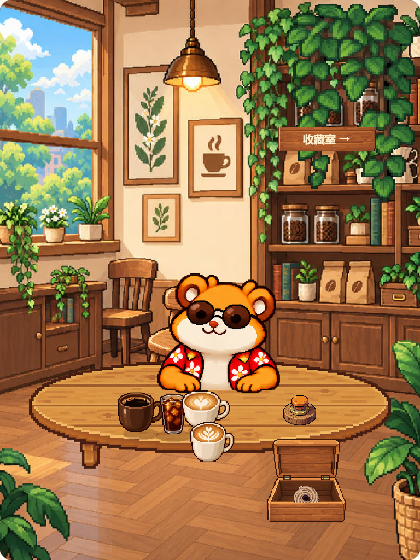
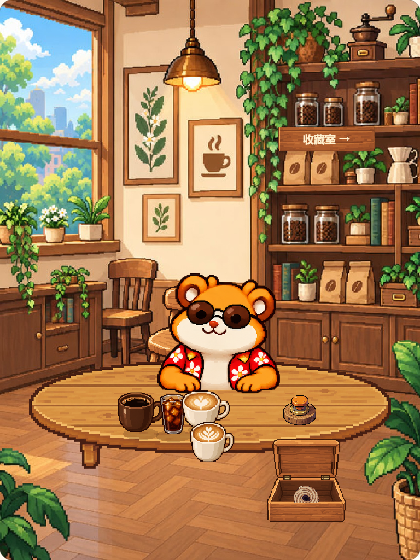
Fix coffee-corner visual regressions and release V19.5.1
Keep a single collection sign with a transparent hit target, pin the seated hamster, and show the storage box only while a cup is being packed away. Skip ivy and chalkboard overlays on the baked rooms, and use a quiet dashboard hamster as the daily limit gets close.

Changed region(s): [[0.681, 0.0, 0.9905, 0.3643]]

diff --git a/production_scene.js b/production_scene.js
@@ -141,6 +141,8 @@ window.CleanupMotion=(function(){
     const s=schedule(M,rows);
     return s.reactionAt+reactionMs(M,rows);
   }
+  // Closed box appears with the lid opening and leaves after the closed hold.
+  function boxVisible(elapsed,sched){return elapsed>=sched.openingAt&&elapsed<sched.reactionAt}
   function snapshot(M,elapsed,rows,origins){
     const sched=schedule(M,rows);
     const phase=boxPhase(elapsed,sched);
@@ -165,7 +167,7 @@ window.CleanupMotion=(function(){
       react:elapsed>=sched.reactionAt
     };
   }
-  return {MAX_VISIBLE,DEFAULTS,timing,boxPose,boxPivot,boxOrigin,mouth,drop,tablePose,tableCup,visibleRows,hiddenCount,schedule,boxPhase,boxStateKey,boxLayers,hamster,cupMotion,reactionName,reactionMs,totalMs,snapshot,ease,mix,clamp01};
+  return {MAX_VISIBLE,DEFAULTS,timing,boxPose,boxPivot,boxOrigin,mouth,drop,tablePose,tableCup,visibleRows,hiddenCount,schedule,boxPhase,boxStateKey,boxLayers,boxVisible,hamster,cupMotion,reactionName,reactionMs,totalMs,snapshot,ease,mix,clamp01};
 })();
 }
 const ProductionScene={
@@ -182,9 +184,10 @@ const ProductionScene={
   tableCup(i,n){return CleanupMotion.tableCup(this.M(),i,n)},
   hot(id){return this.M().assets[id]?.hot!==false&&!/cold_brew|coconut_latte|matcha|dirty/.test(id)},
   roomId(){const s=this.M().scene.room;return this.night()?(s&&s.night)||'scene_room_night':(s&&s.day)||'scene_room_day'},
+  bakedRoom(){return !!this.M().assets[this.roomId()]},
   drawRoom(c){
-    if(this.M().assets[this.roomId()])this.drawTop(c,this.roomId(),0,0,768);
-    else{this.drawTop(c,'scene_background',0,0,768);this.drawTop(c,this.night()?'window_night':'window_day',35,140,285);this.drawTop(c,'lamp',350,40,125);this.drawTop(c,'plant',18,540,160);this.drawTop(c,'plant',610,530,130)}
+    if(this.bakedRoom()){this.drawTop(c,this.roomId(),0,0,768);return}
+    this.drawTop(c,'scene_background',0,0,768);this.drawTop(c,this.night()?'window_night':'window_day',35,140,285);this.drawTop(c,'lamp',350,40,125);this.drawTop(c,'plant',18,540,160);this.drawTop(c,'plant',610,530,130);
     if(this.M().assets.chalkboard)this.sprite(c,'chalkboard',118,790,.78);
   },
   drawSeat(c){const ch=this.M().scene.chair||{},x=ch.position?ch.position[0]:338,y=ch.position?ch.position[1]:702,s=ch.scale||.58;this.sprite(c,'chair',x,y,s)},
@@ -192,7 +195,10 @@ const ProductionScene={
   btn(){const b=this.M().scene.button||{};return {x:b.position?b.position[0]:548,y:b.position?b.position[1]:778,scale:b.scale||.28,up:b.up||'btn_hamster_up',down:b.down||'btn_hamster_down'}},
   drawButton(c,pressed){const b=this.btn();this.sprite(c,pressed?b.down:b.up,b.x,b.y+(pressed?6:0),b.scale)},
   drawDressing(c){(this.M().scene.dressing||[]).forEach(p=>{if(this.M().assets[p.id])this.sprite(c,p.id,p.position[0],p.position[1],p.scale)})},
-  drawSign(c,glow){this.sprite(c,'entrance_normal',597,255,.55);c.save();c.fillStyle=glow?'#fff8dc':'#fff1cf';c.font='700 20px system-ui';c.textAlign='center';c.fillText('收藏室 →',597,262);c.restore()},
+  signPose(){return {id:'entrance_normal',x:597,y:255,scale:.55}},
+  signRect(){const p=this.signPose(),a=this.M().assets[p.id]||{pivotX:176,pivotY:56,canvas:[352,112]};const w=a.canvas[0]*p.scale,h=a.canvas[1]*p.scale;return {x:p.x-a.pivotX*p.scale,y:p.y-a.pivotY*p.scale,w,h}},
+  drawSign(c,glow){const p=this.signPose();this.sprite(c,p.id,p.x,p.y,p.scale);c.save();c.fillStyle=glow?'#fff8dc':'#fff1cf';c.font='700 20px system-ui';c.textAlign='center';c.fillText('收藏室 →',p.x,p.y+7);c.restore()},
+  drawIvy(c){if(!this.bakedRoom()&&this.M().assets.ivy_hanging)this.sprite(c,'ivy_hanging',640,8,.85)},
   drawStorage(c,snap,cupSprite){
     snap.layers.forEach(id=>{
       if(id==='liveCup'){
@@ -221,15 +227,14 @@ const ProductionScene={
     if(this.paintRitual){this.paintRitual(c);this.place();return}
     this.drawRoom(c);this.drawSeat(c);
     const tw=this.tableWorld();this.sprite(c,'table_back',tw.x,tw.y,tw.scale);
-    const hid=id||this.hamster||this.restId(), idle=this.M().scene.idle, bob=this._bob||0;
-    this.sprite(c,hid,idle.position[0],idle.position[1]+bob,idle.scale);
+    const hid=id||this.hamster||this.restId(), idle=this.M().scene.idle;
+    this.sprite(c,hid,idle.position[0],idle.position[1],idle.scale);
     const cups=typeof CoffeeRoom!=='undefined'?CoffeeRoom.desk().slice(0,CleanupMotion.MAX_VISIBLE):[],cs=.4;
     cups.forEach((r,i)=>{const [x,y]=this.tableCup(i,cups.length),cid=this.cupId(r);this.sprite(c,'cup_shadow_medium',x,y+2,cs);this.sprite(c,cid,x,y,cs);if(this.fx)this.sprite(c,this.fx,x,y-36,.32)});
     this.drawDressing(c);this.drawButton(c,false);
     this.sprite(c,'table_front',tw.x,tw.y,tw.scale);
-    if(this.M().assets.ivy_hanging)this.sprite(c,'ivy_hanging',640,8,.85);
+    this.drawIvy(c);
     this.drawSign(c,false);
-    this.drawStorage(c,CleanupMotion.snapshot(this.M(),0,[],[]),r=>this.cupId(r));
     if(this.sleepy()&&this.fx&&String(this.fx).startsWith('fx_zzz'))this.sprite(c,this.fx,idle.position[0]+70,idle.position[1]-120,.5);
     if(!cups.length&&this.fx&&String(this.fx).startsWith('fx_question'))this.sprite(c,this.fx,idle.position[0]+90,idle.position[1]-80,.55);
     this.place();
@@ -238,10 +243,14 @@ const ProductionScene={
     const canvas=this.canvas;if(!canvas?.parentElement)return;
     const cups=typeof CoffeeRoom!=='undefined'?CoffeeRoom.desk().slice(0,CleanupMotion.MAX_VISIBLE):[],n=cups.length,cs=.4;
     canvas.parentElement.querySelectorAll('.cc-desk-cup').forEach((btn,i)=>{if(i>=n)return;const [x,y]=this.tableCup(i,n),w=256*cs,h=256*cs;btn.style.left=((x-128*cs)/768*100).toFixed(2)+'%';btn.style.top=((y-224*cs)/1024*100).toFixed(2)+'%';btn.style.width=(w/768*100).toFixed(2)+'%';btn.style.height=(h/1024*100).toFixed(2)+'%'});
+    const sign=canvas.parentElement.querySelector('.cc-room-sign');
+    if(sign){const r=this.signRect();sign.style.left=((r.x+r.w/2)/768*100).toFixed(2)+'%';sign.style.top=((r.y+r.h/2)/1024*100).toFixed(2)+'%';sign.style.width=(r.w/768*100).toFixed(2)+'%';sign.style.height=(r.h/1024*100).toFixed(2)+'%'}
   },
-  rest(){this.interactionState='idle';this.paintRitual=null;this.fx=null;this.hamster=this.restId();this.canvas?.removeAttribute('data-playing');this.canvas&&(this.canvas.dataset.interaction='idle');this.paint();this.bob()},
+  rest(){this.interactionState='idle';this.paintRitual=null;this.fx=null;this.hamster=this.restId();this._bob=0;this.canvas?.removeAttribute('data-playing');this.canvas&&(this.canvas.dataset.interaction='idle');this.paint();this.bob()},
   bob(){const canvas=this.canvas;if(!canvas)return;const tok=++this.bobTok,t0=performance.now(),rest=this.restId(),blink=this.sleepy()?'hamster_sleep_02':'hamster_idle_01';
-    const tick=now=>{if(tok!==this.bobTok||this.paintRitual||canvas.dataset.playing)return;const t=(now-t0)/1000;this._bob=Math.sin(t*Math.PI*1.15)*1.4;this.hamster=(t%3.6)>3.38?blink:rest;this.paint(this.hamster);requestAnimationFrame(tick)};requestAnimationFrame(tick)},
+    this._bob=0;
+    let shown=this.hamster;
+    const tick=now=>{if(tok!==this.bobTok||this.paintRitual||canvas.dataset.playing)return;const t=(now-t0)/1000;this._bob=0;const next=(t%3.6)>3.38?blink:rest;if(next!==shown){shown=next;this.hamster=next;this.paint(next)}requestAnimationFrame(tick)};requestAnimationFrame(tick)},
   play(name,onframe,done){
     this.bobTok++;Motion.stop();
     const canvas=this.canvas||document.querySelector('[data-scene]');if(!canvas){done?.();return}
@@ -285,9 +294,9 @@ const ProductionScene={
     this.drawDressing(c);this.drawButton(c,snap.buttonDown);
     if(snap.hamster.pressed)this.sprite(c,hid,idle.position[0],idle.position[1],idle.scale);
     this.sprite(c,'table_front',tw.x,tw.y,tw.scale);
-    if(this.M().assets.ivy_hanging)this.sprite(c,'ivy_hanging',640,8,.85);
+    this.drawIvy(c);
     this.drawSign(c,snap.phase!=='closed');
-    this.drawStorage(c,snap,r=>this.cupId(r));
+    if(CleanupMotion.boxVisible(snap.elapsed,snap.sched))this.drawStorage(c,snap,r=>this.cupId(r));
     if(this.fx&&String(this.fx).startsWith('fx_question'))this.sprite(c,this.fx,idle.position[0]+90,idle.position[1]-80,.55);
   },
   startReaction(rows,done){
@@ -335,7 +344,7 @@ const ProductionScene={
   mount(){
     document.querySelectorAll('canvas[data-scene]').forEach(canvas=>{
       if(this.mounted.has(canvas)){this.canvas=canvas;this.paint();return}
-      this.mounted.add(canvas);this.canvas=canvas;
+      this.mounted.add(canvas);this.canvas=canvas;this.place();
       this.load().then(()=>{if(!canvas.isConnected)return;if(typeof CoffeeRoom!=='undefined'&&CoffeeRoom.ritual)return;if(!canvas.dataset.playing){this.rest();this.nudge()}}).catch(()=>{canvas.setAttribute('aria-label','咖啡角素材暂时无法加载')});
     });
   }

diff --git a/coffee_room.js b/coffee_room.js
@@ -11,7 +11,7 @@ const CoffeeRoom={
   cupButton(r){return `<button class="cc-desk-cup" data-record-id="${esc(r.id)}" onclick="CoffeeRoom.detail(${this.arg(r.id)})" aria-label="查看 ${esc(recordDisplayName(r))}，${pad(new Date(r.ts).getHours())}:${pad(new Date(r.ts).getMinutes())}"></button>`},
   hero(){if(/^character_/.test(settings.homeCharacter||'')&&settings.homeCharacter!=='character_burger'&&Motion.asset(settings.homeCharacter))return settings.homeCharacter;const h=new Date().getHours();return h<6||h>=22?'character_idle':this.desk().length?'character_coffee':'character_wave'},
   scene(){const rs=this.desk(),night=ProductionScene.night();
-    return `<section class="cc-corner ${night?'cc-night':''}" aria-label="仓鼠咖啡角"><canvas class="cc-scene-canvas" width="768" height="1024" data-scene="true" role="img" aria-label="仓鼠咖啡角，点击播放一次动作"></canvas><div class="cc-scene-heading"><span>仓鼠咖啡角</span><button class="cc-room-sign" onclick="CoffeeRoom.open()">收藏室 ↗</button></div><div class="cc-speech">${rs.length?'每一杯，都有自己的故事。':'桌子留好了，今天想喝什么？'}</div><div class="cc-desk" aria-label="今天的咖啡">${rs.slice(0,4).map(r=>this.cupButton(r)).join('')}</div>${rs.length>4?`<button class="cc-more" onclick="CoffeeRoom.openToday()">更多 · 还有 ${rs.length-4} 杯 →</button>`:!rs.length?'<span class="cc-empty-desk">还没有放上今天的咖啡</span>':''}<div class="cc-ritual-slot"></div></section>`;
+    return `<section class="cc-corner ${night?'cc-night':''}" aria-label="仓鼠咖啡角"><canvas class="cc-scene-canvas" width="768" height="1024" data-scene="true" role="img" aria-label="仓鼠咖啡角，点击播放一次动作"></canvas><button type="button" class="cc-room-sign" onclick="CoffeeRoom.open()" aria-label="打开收藏室"></button><div class="cc-speech">${rs.length?'每一杯，都有自己的故事。':'桌子留好了，今天想喝什么？'}</div><div class="cc-desk" aria-label="今天的咖啡">${rs.slice(0,4).map(r=>this.cupButton(r)).join('')}</div>${rs.length>4?`<button class="cc-more" onclick="CoffeeRoom.openToday()">更多 · 还有 ${rs.length-4} 杯 →</button>`:!rs.length?'<span class="cc-empty-desk">还没有放上今天的咖啡</span>':''}<div class="cc-ritual-slot"></div></section>`;
   },
   decorateHome(){const content=$('todayContent');if(!content)return;const hero=content.querySelector('.u-hero');if(!hero)return;
     // Two independent home screens: scene first; live data and gauge on the second.
@@ -57,7 +57,7 @@ const roomRenderAll=renderAll;renderAll=function(){roomRenderAll();CoffeeRoom.re
 // Save already persists the record. All room views read that same record immediately.
 const roomPersist=persist;persist=function(){roomPersist();CoffeeRoom.renderShelves();CoffeeRoom.renderDetail()};
 const roomGo=UI.go;UI.go=function(id){if(id==='dashboard'){CoffeeRoom.finishRitual();document.querySelectorAll('.page,.nav button').forEach(n=>n.classList.remove('active'));$('dashboard').classList.add('active');document.querySelector('.nav [data-page=today]').classList.add('active');document.body.dataset.page='dashboard';renderAll();scrollTo(0,0);Dashboard.greet()}else if(id==='photos')CoffeeRoom.photos();else roomGo(id)};
-const roomSettings=renderSettings;renderSettings=function(){roomSettings();$('settingsContent').insertAdjacentHTML('afterbegin','<button class="u-achievement-teaser" onclick="CoffeeRoom.open()"><span><b>咖啡收藏室</b><small>每一杯都有自己的位置</small></span>'+UI.arrow()+'</button>');$('settingsContent').querySelector('.about span').textContent='Beanster Sips · V19.5'};
+const roomSettings=renderSettings;renderSettings=function(){roomSettings();$('settingsContent').insertAdjacentHTML('afterbegin','<button class="u-achievement-teaser" onclick="CoffeeRoom.open()"><span><b>咖啡收藏室</b><small>每一杯都有自己的位置</small></span>'+UI.arrow()+'</button>');$('settingsContent').querySelector('.about span').textContent='Beanster Sips · V19.5.1'};
 // Route existing record menus into the complete detail page.
 UI.recordMenu=id=>CoffeeRoom.detail(id);
 const roomGallery=Motion.gallery;Motion.gallery=function(){roomGallery.call(this);document.querySelectorAll('.u-expression-grid article').forEach(article=>{const img=article.querySelector('[data-motion]');if(!img?.dataset.motion.startsWith('character_'))return;const button=article.querySelector('button');if(button){button.disabled=false;button.textContent='播放表情';button.removeAttribute('onclick');button.onclick=()=>Motion.play(img)}});document.querySelectorAll('#uExpressions button[onclick^=\"Motion.choose\"]').forEach(b=>b.remove());document.querySelectorAll('#uExpressions .u-motion-hint').forEach((p,i)=>p.textContent=i?'开心、平静等头像仍可选择；咖啡角使用专属坐姿。':'点击表情，播放一次。汉堡搭配保留为扩展情绪。')};

diff --git a/art/production-v2/preview.js b/art/production-v2/preview.js
@@ -16,6 +16,8 @@ function play(name,paint,finish){halt();const t=token,a=M.animations[name],start
 function desk(){return records.filter(r=>r.day==='today')}
 function tableCupPosition(index,n){return CleanupMotion.tableCup(M,index,n)}
 function roomId(){const s=M.scene.room;return night?(s&&s.night)||'scene_room_night':(s&&s.day)||'scene_room_day'}
+function bakedRoom(){return !!M.assets[roomId()]}
+function drawIvy(c){if(!bakedRoom()&&M.assets.ivy_hanging)sprite(c,'ivy_hanging',640,8,.85)}
 function cupOf(r){return r.cup&&M.assets[r.cup]?r.cup:'cup_latte'}
 function drawStorage(c,snap){
   snap.layers.forEach(id=>{
@@ -30,8 +32,7 @@ function drawIdle(id='hamster_idle_base'){
   hamsterId=id;
   const c=scene.getContext('2d'),idle=M.scene.idle,ch=M.scene.chair||{},tw=CleanupMotion.tablePose(M),btn=M.scene.button||{};
   c.clearRect(0,0,768,1024);
-  if(M.assets[roomId()])drawTop(c,roomId(),0,0,768);else{drawTop(c,'scene_background',0,0,768);drawTop(c,night?'window_night':'window_day',35,140,285);drawTop(c,'lamp',350,40,125);drawTop(c,'plant',18,540,160);drawTop(c,'plant',610,530,130)}
-  if(M.assets.chalkboard)sprite(c,'chalkboard',118,790,.78);
+  if(bakedRoom())drawTop(c,roomId(),0,0,768);else{drawTop(c,'scene_background',0,0,768);drawTop(c,night?'window_night':'window_day',35,140,285);drawTop(c,'lamp',350,40,125);drawTop(c,'plant',18,540,160);drawTop(c,'plant',610,530,130);if(M.assets.chalkboard)sprite(c,'chalkboard',118,790,.78)}
   sprite(c,'chair',ch.position?ch.position[0]:338,ch.position?ch.position[1]:702,ch.scale||.58);
   sprite(c,'table_back',tw.x,tw.y,tw.scale);sprite(c,id,idle.position[0],idle.position[1],idle.scale);
   const cups=desk().slice(0,CleanupMotion.MAX_VISIBLE);
@@ -39,11 +40,9 @@ function drawIdle(id='hamster_idle_base'){
   (M.scene.dressing||[]).forEach(p=>sprite(c,p.id,p.position[0],p.position[1],p.scale));
   sprite(c,btn.up||'btn_hamster_up',btn.position?btn.position[0]:548,btn.position?btn.position[1]:778,btn.scale||.28);
   sprite(c,'table_front',tw.x,tw.y,tw.scale);
-  if(M.assets.ivy_hanging)sprite(c,'ivy_hanging',640,8,.85);
+  drawIvy(c);
   sprite(c,'entrance_normal',597,255,.55);
-  c.fillStyle='#634027';c.font='24px system-ui';c.fillText('仓鼠咖啡角',36,66);
   c.font='700 20px system-ui';c.fillStyle='#fff1cf';c.textAlign='center';c.fillText('收藏室 →',597,262);c.textAlign='left';
-  drawStorage(c,CleanupMotion.snapshot(M,0,[],[]));
   c.fillStyle='#634027';if(desk().length>4)c.fillText('更多 · +'+(desk().length-4),550,881);
   document.getElementById('stats').textContent=`桌面 ${desk().length} 杯 · 展示 ${cups.length} 杯 · 收藏 ${records.length} 条独立记录`;
   drawShelf();
@@ -59,8 +58,8 @@ function drawCleanup(elapsed,rows,hid){
   const c=scene.getContext('2d'),idle=M.scene.idle,ch=M.scene.chair||{},tw=CleanupMotion.tablePose(M),btn=M.scene.button||{};
   const hamster=hid||snap.hamster.id;
   c.clearRect(0,0,768,1024);
-  if(M.assets[roomId()])drawTop(c,roomId(),0,0,768);
-  if(M.assets.chalkboard)sprite(c,'chalkboard',118,790,.78);
+  if(bakedRoom())drawTop(c,roomId(),0,0,768);
+  else if(M.assets.chalkboard)sprite(c,'chalkboard',118,790,.78);
   sprite(c,'chair',ch.position?ch.position[0]:338,ch.position?ch.position[1]:702,ch.scale||.58);
   sprite(c,'table_back',tw.x,tw.y,tw.scale);
   if(!snap.hamster.pressed)sprite(c,hamster,idle.position[0],idle.position[1],idle.scale);
@@ -69,10 +68,10 @@ function drawCleanup(elapsed,rows,hid){
   sprite(c,snap.buttonDown?btn.down||'btn_hamster_down':btn.up||'btn_hamster_up',btn.position?btn.position[0]:548,(btn.position?btn.position[1]:778)+(snap.buttonDown?6:0),btn.scale||.28);
   if(snap.hamster.pressed)sprite(c,hamster,idle.position[0],idle.position[1],idle.scale);
   sprite(c,'table_front',tw.x,tw.y,tw.scale);
-  if(M.assets.ivy_hanging)sprite(c,'ivy_hanging',640,8,.85);
+  drawIvy(c);
   sprite(c,'entrance_normal',597,255,.55);
   c.fillStyle='#fff1cf';c.font='700 20px system-ui';c.textAlign='center';c.fillText('收藏室 →',597,262);c.textAlign='left';
-  drawStorage(c,snap);
+  if(CleanupMotion.boxVisible(snap.elapsed,snap.sched))drawStorage(c,snap);
   if(fxId)sprite(c,fxId,idle.position[0]+90,idle.position[1]-80,.55);
   inspectFrame(hamster);
   return snap;

diff --git a/art/production-v2/cleanup-inspect.html b/art/production-v2/cleanup-inspect.html
@@ -61,15 +61,17 @@ function drawElapsed(ms){
   sprite(c,snap.buttonDown?'btn_hamster_down':'btn_hamster_up',btn.position?btn.position[0]:548,(btn.position?btn.position[1]:778)+(snap.buttonDown?6:0),btn.scale||.28);
   if(snap.hamster.pressed)sprite(c,hid,idle.position[0],idle.position[1],idle.scale);
   sprite(c,'table_front',tw.x,tw.y,tw.scale);
-  if(M.assets.ivy_hanging)sprite(c,'ivy_hanging',640,8,.85);
+  if(!(M.assets[room])&&M.assets.ivy_hanging)sprite(c,'ivy_hanging',640,8,.85);
   sprite(c,'entrance_normal',597,255,.55);c.fillStyle='#fff1cf';c.font='700 20px system-ui';c.textAlign='center';c.fillText('收藏室 →',597,262);c.textAlign='left';
-  snap.layers.forEach(id=>{
-    if(id==='liveCup'){
-      snap.cups.forEach(cup=>{if(!cup.flying||cup.gone)return;sprite(c,cup.row.cup,cup.p[0],cup.p[1],cup.s)});
-      if(snap.swirl){const swirl=M.animations.suck;if(swirl){const fi=Math.floor(snap.elapsed/1000*swirl.fps)%swirl.frames.length;sprite(c,swirl.frames[fi],snap.mouth[0],snap.mouth[1],.26)}}
-    }else spriteBox(c,id);
-  });
-  if(snap.archiveText){c.save();c.fillStyle='#fff1cf';c.font='700 18px system-ui';c.textAlign='center';c.fillText(snap.archiveText,snap.pose.x,snap.pose.y+18);c.restore()}
+  if(CleanupMotion.boxVisible(elapsed,snap.sched)){
+    snap.layers.forEach(id=>{
+      if(id==='liveCup'){
+        snap.cups.forEach(cup=>{if(!cup.flying||cup.gone)return;sprite(c,cup.row.cup,cup.p[0],cup.p[1],cup.s)});
+        if(snap.swirl){const swirl=M.animations.suck;if(swirl){const fi=Math.floor(snap.elapsed/1000*swirl.fps)%swirl.frames.length;sprite(c,swirl.frames[fi],snap.mouth[0],snap.mouth[1],.26)}}
+      }else spriteBox(c,id);
+    });
+    if(snap.archiveText){c.save();c.fillStyle='#fff1cf';c.font='700 18px system-ui';c.textAlign='center';c.fillText(snap.archiveText,snap.pose.x,snap.pose.y+18);c.restore()}
+  }
   const max=Math.max(1,snap.sched.reactionAt);
   slider.value=String(Math.round(Math.min(1,elapsed/max)*100));
   const sample=snap.cups[0]||{gone:true,flying:false,t:0};
@@ -78,8 +80,8 @@ function drawElapsed(ms){
   return snap;
 }
 function stop(){++token;cancelAnimationFrame(raf);kind='idle'}
-function play(){stop();kind='cleanup';const rows=demoRows(deskN),sched=CleanupMotion.schedule(M,rows),t=token,t0=performance.now();function step(now){if(t!==token)return;const ms=now-t0;drawElapsed(ms);if(ms>=sched.reactionAt){kind='done';drawElapsed(sched.closedAt);return}raf=requestAnimationFrame(step)}raf=requestAnimationFrame(step)}
-function skipToComplete(){stop();kind='done';const s=CleanupMotion.schedule(M,demoRows(deskN));drawElapsed(s.closedAt)}
+function play(){stop();kind='cleanup';const rows=demoRows(deskN),sched=CleanupMotion.schedule(M,rows),t=token,t0=performance.now();function step(now){if(t!==token)return;const ms=now-t0;drawElapsed(ms);if(ms>=sched.reactionAt){kind='done';drawElapsed(sched.reactionAt);return}raf=requestAnimationFrame(step)}raf=requestAnimationFrame(step)}
+function skipToComplete(){stop();kind='done';const s=CleanupMotion.schedule(M,demoRows(deskN));drawElapsed(s.reactionAt)}
 function resetQA(){stop();kind='idle';drawElapsed(0)}
 document.getElementById('play').onclick=play;
 document.getElementById('skip').onclick=skipToComplete;

diff --git a/dashboard.js b/dashboard.js
@@ -2,7 +2,7 @@
 const Dashboard={styles:{ring:'统计圆环',cup:'经典咖啡杯',number:'简洁数字',bar:'刻度进度'},colors:{coffee:['咖啡棕','#805036','#c99363'],caramel:['焦糖金','#9a631d','#e6b969'],forest:['森林绿','#356554','#83ad91']},
   config(){return {style:this.styles[settings.dashboardStyle]?settings.dashboardStyle:'ring',color:this.colors[settings.dashboardColor]?settings.dashboardColor:'coffee',mascot:settings.dashboardMascot!==false}},
   stats(){const value=Math.round(sum(dayRecords(),'caffeine')),limit=Math.max(1,Number(settings.dailyLimit)||400);return {value,limit,fill:clamp(value/limit,0,1),remaining:Math.max(0,limit-value),over:Math.max(0,value-limit)}},
-  companionId(){const s=this.stats(),cups=dayRecords().length,h=new Date().getHours();if(s.over)return 'character_late_night';if(s.fill>=.8)return 'character_goal';if(h<6||h>=22)return 'character_idle';if(!cups)return 'character_wave';return 'character_coffee'},
+  companionId(hour){const s=this.stats(),cups=dayRecords().length,h=hour==null?new Date().getHours():hour;if(s.value>=s.limit)return 'character_late_night';if(s.fill>=.8)return 'character_idle';if(h<6||h>=22)return 'character_idle';if(!cups)return 'character_wave';return 'character_coffee'},
   placeCompanion(hero){if(!hero)return;hero.querySelectorAll('.u-home-mascot,.u-dash-mascot').forEach(n=>n.remove());if(!this.config().mascot){hero.classList.add('u-no-mascot');return}hero.classList.remove('u-no-mascot');const id=this.companionId();hero.insertAdjacentHTML('beforeend',UI.art(id,'u-home-mascot u-dash-mascot',true,'仪表盘仓鼠'))},
   render(){const hero=document.querySelector('.u-hero');if(!hero)return;const c=this.config(),s=this.stats(),colors=this.colors[c.color];hero.dataset.dashboardStyle=c.style;hero.style.setProperty('--dash-main',colors[1]);hero.style.setProperty('--dash-light',colors[2]);
     const mascot=hero.querySelector('.u-home-mascot');if(mascot&&!c.mascot)mascot.remove();hero.classList.toggle('u-no-mascot',!c.mascot);

diff --git a/coffee_room.css b/coffee_room.css
@@ -107,7 +107,7 @@ body[data-page=dashboard]>.top{display:none}
 
 /* User frame atlases: all paws land at the same tabletop plane. */
 canvas.cc-seated{width:210px;height:230px;bottom:145px;pointer-events:auto;cursor:pointer;z-index:4;image-rendering:pixelated}
-#todayContent .cc-speech{bottom:auto;top:85px}
+#todayContent .cc-speech{bottom:auto;top:78px;left:18px;right:auto;transform:none;max-width:58%}
 @media(max-width:350px){canvas.cc-seated{width:190px;height:208px;bottom:147px}}
 @media(max-height:760px){#todayContent .cc-speech{display:none}}
 
@@ -133,3 +133,7 @@ canvas.cc-seated{width:200px;height:175px}
 .cc-shelf::after{content:'';position:absolute;inset:0;background:url('art/production-v2/storage/storage_front_mask.png') center/100% 100%;pointer-events:none;image-rendering:pixelated}
 .cc-collection-cup{position:relative;z-index:1}
 @media(max-width:350px){.cc-corner{border-radius:14px}.cc-collection-cup .cc-cup{width:52px;height:52px}.cc-shelf{padding-left:6px;padding-right:6px}}
+
+/* V19.5.1: canvas wooden sign is the only collection label. This button is its hit target. */
+.cc-room-sign{position:absolute;z-index:8;transform:translate(-50%,-50%);min-width:44px;min-height:44px;margin:0;padding:0;border:0;border-radius:8px;background:transparent;box-shadow:none;color:transparent;font-size:0}
+.cc-room-sign:focus-visible{outline:2px solid #fff1cf;outline-offset:3px}

diff --git a/art/production-v2/cleanup_fsm.js b/art/production-v2/cleanup_fsm.js
@@ -140,6 +140,7 @@ window.CleanupMotion=(function(){
     const s=schedule(M,rows);
     return s.reactionAt+reactionMs(M,rows);
   }
+  function boxVisible(elapsed,sched){return elapsed>=sched.openingAt&&elapsed<sched.reactionAt}
   function snapshot(M,elapsed,rows,origins){
     const sched=schedule(M,rows);
     const phase=boxPhase(elapsed,sched);
@@ -164,5 +165,5 @@ window.CleanupMotion=(function(){
       react:elapsed>=sched.reactionAt
     };
   }
-  return {MAX_VISIBLE,DEFAULTS,timing,boxPose,boxPivot,boxOrigin,mouth,drop,tablePose,tableCup,visibleRows,hiddenCount,schedule,boxPhase,boxStateKey,boxLayers,hamster,cupMotion,reactionName,reactionMs,totalMs,snapshot,ease,mix,clamp01};
+  return {MAX_VISIBLE,DEFAULTS,timing,boxPose,boxPivot,boxOrigin,mouth,drop,tablePose,tableCup,visibleRows,hiddenCount,schedule,boxPhase,boxStateKey,boxLayers,boxVisible,hamster,cupMotion,reactionName,reactionMs,totalMs,snapshot,ease,mix,clamp01};
 })();

diff --git a/tests/test_upgrade_package.py b/tests/test_upgrade_package.py
@@ -5,7 +5,7 @@ import zipfile
 import sys
 
 ROOT=Path(__file__).resolve().parents[1]
-with zipfile.ZipFile(Path(sys.argv[1]) if len(sys.argv)>1 else ROOT/'Beanster-Sips-V19.5-unsigned.apk') as z:
+with zipfile.ZipFile(Path(sys.argv[1]) if len(sys.argv)>1 else ROOT/'Beanster-Sips-V19.5.1-unsigned.apk') as z:
     assert z.testzip() is None
     names=set(z.namelist())
     for name in ['app_v5.js','ui_upgrade.js','ui_upgrade.css','ocr_reader.js','motion.js','data_integrity.js','navigation.js','companion.js','local_vision.js','dashboard.js','recognition_flow.js','production_scene.js','coffee_room.js','coffee_room.css','coffee_pages.js','seated_clips.js','seated_motion.js']:
@@ -46,7 +46,7 @@ with zipfile.ZipFile(Path(sys.argv[1]) if len(sys.argv)>1 else ROOT/'Beanster-Si
         assert z.read('assets/art/coffee-room/'+name)==(ROOT/'art/coffee-room'/name).read_bytes()
     assert 'src="coffee_room.js"' in html and 'href="coffee_room.css"' in html and 'src="production_scene.js"' in html
     binary_manifest=z.read('AndroidManifest.xml')
-    assert b'com.beanstersips.v11' in binary_manifest and b'19.5' in binary_manifest
+    assert b'com.beanstersips.v11' in binary_manifest and b'19.5.1' in binary_manifest
     prod=json.loads((ROOT/'art/production-v2/asset_manifest.json').read_text(encoding='utf-8'))
     assert 'assets/art/production-v2/asset_manifest.js' in names
     for id,asset in prod['assets'].items():

diff --git a/build_v5.py b/build_v5.py
@@ -2,8 +2,8 @@ from pathlib import Path
 import importlib.util, struct, zipfile, subprocess, shutil, hashlib, argparse
 
 OUT=Path(__file__).resolve().parent
-APP_VERSION='19.5'
-VERSION_CODE=54
+APP_VERSION='19.5.1'
+VERSION_CODE=55
[1 lines of base64/hex data omitted]
 spec=importlib.util.spec_from_file_location('base_v5',OUT/'base_v5.py')
 base=importlib.util.module_from_spec(spec); spec.loader.exec_module(base)

diff --git a/README_V19.5.1.md b/README_V19.5.1.md
@@ -1,0 +1,34 @@
+# Beanster Sips V19.5.1 · 咖啡角视觉回归
+
+在 V19.5（恢复仪表盘仓鼠、启动器图标、坐姿收杯）之上，清掉首页叠了两套入口和待机漂浮。版本名 `19.5.1`，versionCode `55`。
+
+## 咖啡角
+
+- 收藏室只留全景木牌上的「收藏室 →」。`.cc-room-sign` 是盖在木牌上的透明点击热区，不再画第二块棕色按钮。场景左上角不再写「仓鼠咖啡角」，页签仍用这个名字。
+- 坐姿仓鼠根节点 Y 固定在 `scene.idle.position`。待机循环只换眨眼帧，不再上下漂。
+- 待机不画收藏盒。收杯从开盖才出现盒子，合上并停住之后消失。
+- `scene_room_day` / `scene_room_night` 已含右侧藤蔓和墙面海报。用这两张全景时不再叠 `ivy_hanging` 和地板黑板架。没有全景、退回旧分层背景时，这两层仍会画。
+
+## 仪表盘仓鼠
+
+- 有记录且低于 80%：`character_coffee`
+- 80–99%：`character_idle`（放下杯子，轻提醒）
+- ≥100%：`character_late_night`
+- 夜间且未到 80%：`character_idle`
+- 空桌：`character_wave`
+- `character_goal` 留在成就页，不表示快到咖啡因上限。
+
+## 两个图标
+
+- 启动器图标：`build_v5.py` 把 `icon.png` 写入 `res/drawable/icon.png` 和 `assets/icon.png`。这是安装后的桌面图标。
+- 页内品牌标：顶栏 `.top` 里的同一张图。咖啡角和今日仪表盘隐藏整个顶栏，所以首页内部不显示这块品牌标。这不是启动器图标没打进去。
+
+## 验证
+
+- `tests/test_v1951.cjs`：只有一个收藏室入口、待机 Y 固定、待机不画盒子、全景不叠藤蔓和黑板、仪表盘 80% / 100% 表情。
+- 既有 `tests/test_v194.cjs` 仍覆盖分层场景、独立杯子和收杯数据。
+
+APK：`Beanster-Sips-V19.5.1.apk`，Android v3 签名与原证书一致。
[1 lines of base64/hex data omitted]
+
+未进行 Android 真机安装验证。版本代码 55，包名与签名不变。

diff --git a/art/upgrade-v1/RESOURCE_MAP.md b/art/upgrade-v1/RESOURCE_MAP.md
@@ -13,10 +13,11 @@
 ## 已接入仪表盘旁小仓鼠（ui-safe）
 
 - 空桌 / 未记录：`character_wave`
-- 今日有记录且未接近上限：`character_coffee`
-- 接近日上限（≥80%）：`character_goal`
-- 已超上限：`character_late_night`
-- 夜间：`character_idle`
+- 今日有记录且低于 80%：`character_coffee`
+- 80–99%：`character_idle`（放下杯子，轻提醒，不用庆祝勋章）
+- ≥100%：`character_late_night`（无奈 / 到上限）
+- 夜间且未到 80%：`character_idle`
+- `character_goal` 只留在成就页，不表示咖啡因上限
 - 可在「自定义仪表盘」关闭显示
 
 ## 已接入互动 / 表情 / 反馈
@@ -30,8 +31,10 @@
 
 ## App 图标
 
-- `icon.png` — 启动器、关于页、顶栏品牌标、favicon
-- 打进 APK：`res/drawable/icon.png` 与 `assets/icon.png`
+这是两件事。
+
+- 启动器图标：`icon.png` 打进 APK 的 `res/drawable/icon.png` 和 `assets/icon.png`。安装后的桌面图标走这条。
+- 页内品牌标：`index` 顶栏 `.top` 里的 `icon.png`。咖啡角、今日仪表盘、收藏室和月报隐藏整个 `.top`，这些页面看不到顶栏品牌标。记录和设置仍显示顶栏。
 
 ## 仍未作为主流程、建议后续位置
 

diff --git a/art/production-v2/README.md b/art/production-v2/README.md
@@ -1,6 +1,6 @@
 # Beanster Sips 独立素材包 v2
 
-本包交付独立 PNG、坐标协议与可运行的验收页。**V19.4 已接入 App 首页与收藏室**。运行 `preview.html` 可直接检查，不需要联网或构建。预览数据是独立演示记录。
+本包交付独立 PNG、坐标协议与可运行的验收页。**V19.5.1 已接入 App 首页与收藏室**。日夜全景 `scene_room_day/night` 已含藤蔓和墙面海报，预览不再把 `ivy_hanging` / `chalkboard` 叠到全景上。待机不画收藏盒。运行 `preview.html` 可直接检查，不需要联网或构建。预览数据是独立演示记录。
 
 ## 五组核心交付
 
